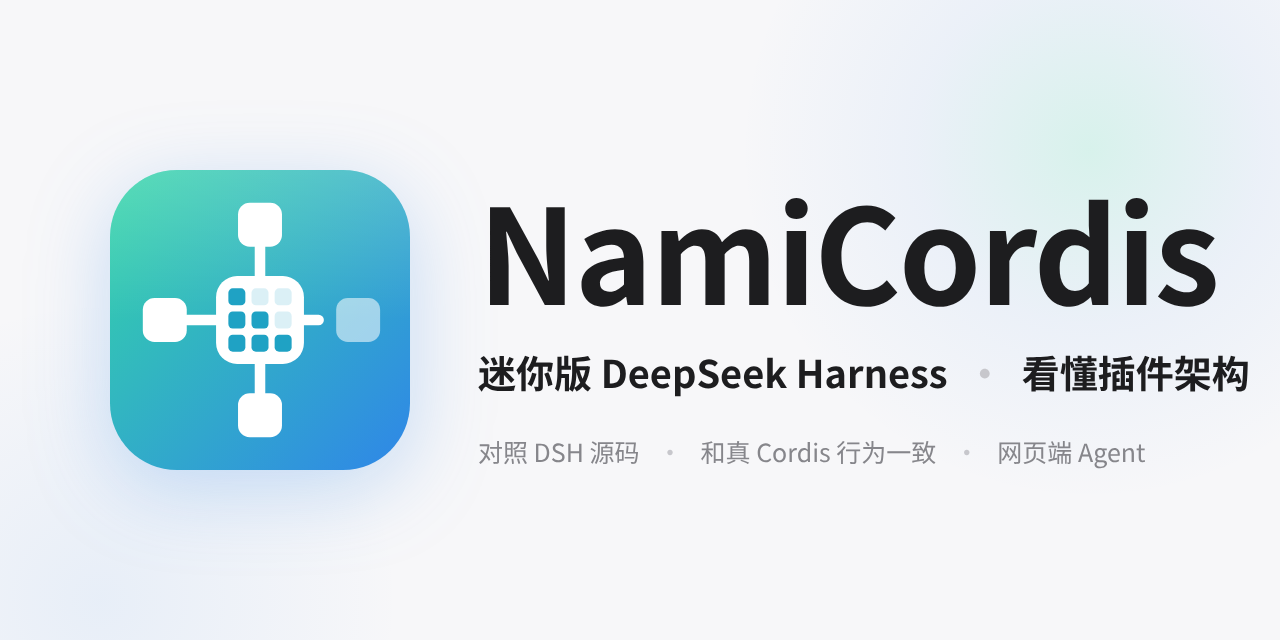
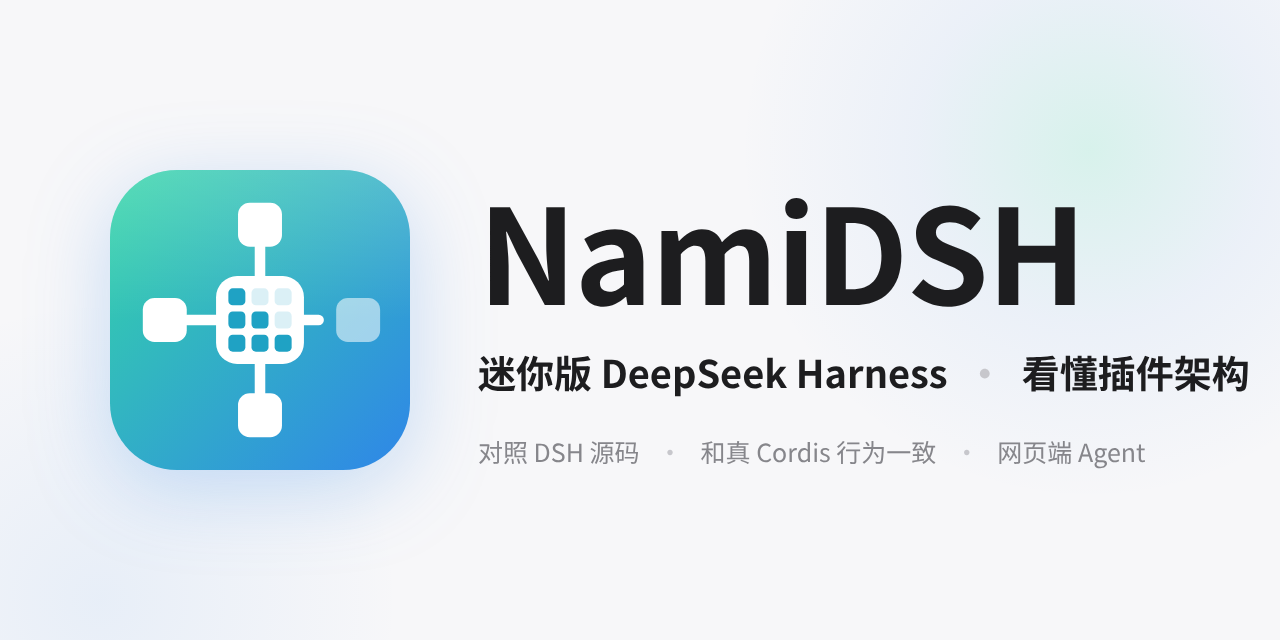
项目改名 NamiDSH：README、文档、页面标题、封面图
GitHub 仓库已改名 aa1143/NamiDSH（旧地址自动跳转）；框架包 packages/cordis 保持原名

Claude-Session: https://claude.ai/code/session_01JiU8xcYaxrDXNyG9HY8oCF

Changed region(s): [[0.625, 0.3125, 0.9688, 0.5]]

diff --git a/apps/web/public/index.html b/apps/web/public/index.html
@@ -3,7 +3,7 @@
 <head>
 <meta charset="utf-8">
 <meta name="viewport" content="width=device-width, initial-scale=1">
-<title>NamiCordis Agent</title>
+<title>NamiDSH Agent</title>
 <style>
   :root { --bg: #fafaf8; --fg: #1d1d1f; --muted: #8a8a8e; --line: #e5e5e2; --card: #fff; --accent: #1d1d1f; }
   @media (prefers-color-scheme: dark) {
@@ -28,7 +28,7 @@
 <body>
 <main>
   <header>
-    <h1>NamiCordis Agent</h1>
+    <h1>NamiDSH Agent</h1>
     <p>迷你版 Cordis + 迷你版 DeepSeek Harness</p>
   </header>
   <div id="list"></div>

diff --git a/docs/07-compare.md b/docs/07-compare.md
@@ -134,4 +134,4 @@ DeepSeek Harness 一百多万行代码，真正撑起整个系统的，是 Cordi
 
 这五条规则，用 680 行就能写出来，跑出来的行为和真 Cordis 一样。剩下的，都是在把这五条规则做得更稳。
 
-代码在 [GitHub · NamiCordis](https://github.com/aa1143/NamiCordis)，可视化在[一张图看懂 DeepSeek Harness](https://namiai.tech/dsh/)。欢迎 clone 下来，把测试跑一遍，再去读 DSH 的源码。
+代码在 [GitHub · NamiDSH](https://github.com/aa1143/NamiDSH)，可视化在[一张图看懂 DeepSeek Harness](https://namiai.tech/dsh/)。欢迎 clone 下来，把测试跑一遍，再去读 DSH 的源码。

diff --git a/docs/03-fiber.md b/docs/03-fiber.md
@@ -2,7 +2,7 @@
 
 > 上一篇说，每挂载一次插件，框架就创建一个 Fiber。这一篇跟着一个 Fiber 走完它的一生：它会处于哪几种状态，什么时候启动、什么时候停下，出错了怎么办，卸载时又是怎么清理干净的。
 >
-> 对应 NamiCordis 的 `packages/cordis/src/fiber.ts`（329 行），对应 DSH 的 `vendor/cordis/src/fiber.ts`（754 行），是整个框架最核心的文件。
+> 对应 NamiDSH 的 `packages/cordis/src/fiber.ts`（329 行），对应 DSH 的 `vendor/cordis/src/fiber.ts`（754 行），是整个框架最核心的文件。
 
 ## 01 六种状态
 

diff --git a/docs/05-events.md b/docs/05-events.md
@@ -2,7 +2,7 @@
 
 > 上一篇讲服务：一个插件提供能力，另一个插件声明依赖、拿来就用。但插件之间还有另一种联系：我不知道谁会关心这件事，但我把它广播出去。这就是事件。
 >
-> DeepSeek Harness 里，工具执行前的审批、模型请求的重试、会话的持久化，都是靠事件挂上去的。对应 NamiCordis 的 `packages/cordis/src/events.ts`。
+> DeepSeek Harness 里，工具执行前的审批、模型请求的重试、会话的持久化，都是靠事件挂上去的。对应 NamiDSH 的 `packages/cordis/src/events.ts`。
 
 ## 01 on 和 emit
 

diff --git a/docs/04-service.md b/docs/04-service.md
@@ -2,7 +2,7 @@
 
 > DeepSeek Harness 的 Agent 循环里写着 `ctx.llm`、`ctx.tools`，却没有 import 任何模型或工具的代码。这一篇讲这背后的机制：服务怎么提供，依赖怎么声明，`ctx.llm` 这一个属性读取背后发生了什么。
 >
-> 对应 NamiCordis 的 `packages/cordis/src/reflect.ts` 和 `service.ts`，对应 DSH 的 `vendor/cordis/src` 里的同名文件。
+> 对应 NamiDSH 的 `packages/cordis/src/reflect.ts` 和 `service.ts`，对应 DSH 的 `vendor/cordis/src` 里的同名文件。
 
 ## 01 提供服务：provide
 

diff --git a/docs/02-context.md b/docs/02-context.md
@@ -2,7 +2,7 @@
 
 > 上一篇说，DeepSeek Harness 里一切都是插件。这一篇从最底层开始：一个插件长什么样，`ctx.plugin()` 那一瞬间发生了什么，插件拿到的 `ctx` 又是什么。
 >
-> 对应 NamiCordis 的 `packages/cordis/src/context.ts` 和 `registry.ts`，对应 DSH 的 `vendor/cordis/src` 里的同名文件。
+> 对应 NamiDSH 的 `packages/cordis/src/context.ts` 和 `registry.ts`，对应 DSH 的 `vendor/cordis/src` 里的同名文件。
 
 ## 01 插件的三种写法
 
